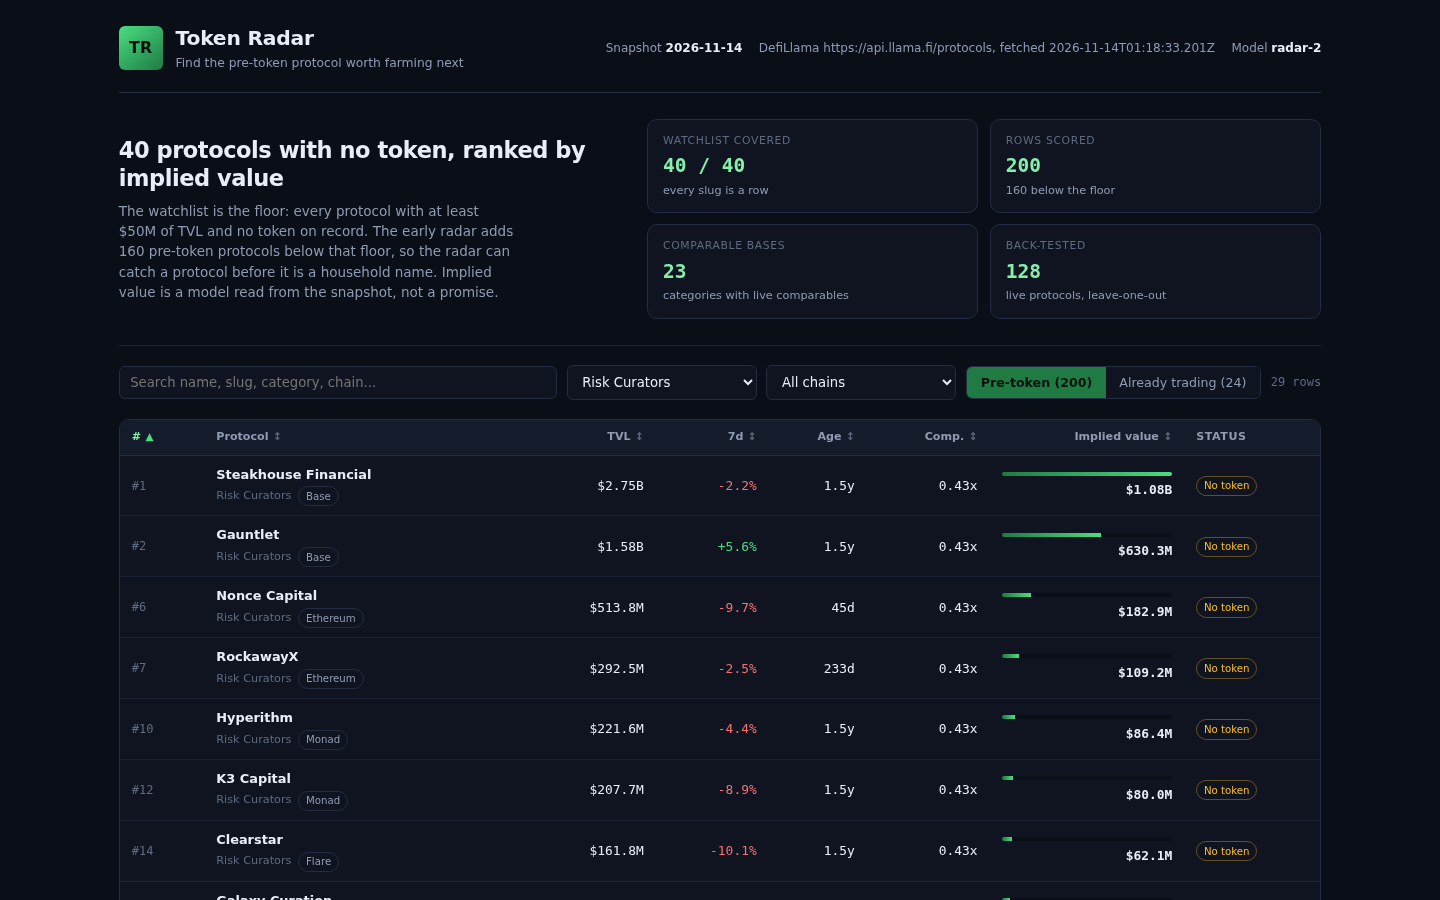
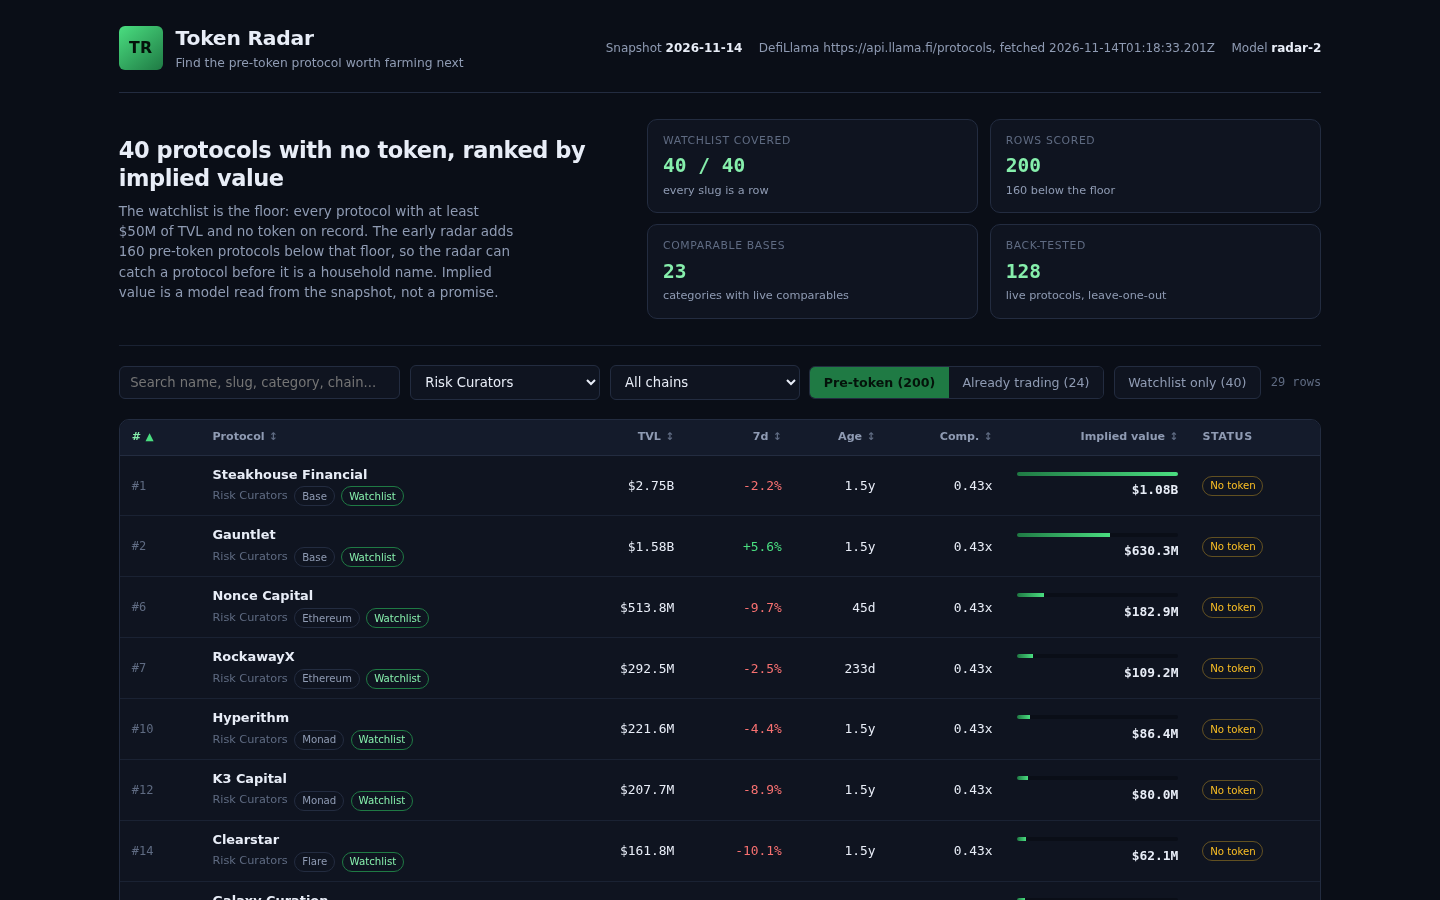
farm plans name the protocol's own figures; watchlist visibility on the board
Each farm step now names the protocol's TVL, chain, category and how long it has
run with no token, and costs the position at a size the protocol's own TVL
supports. The board marks watchlist rows and adds a Watchlist only filter, so the
coverage the gate requires is visible on the page the judge reads.

diff --git a/dashboard/app.js b/dashboard/app.js
@@ -17,6 +17,7 @@
     q: '',
     category: 'all',
     chain: 'all',
+    watchlistOnly: false,
     tab: 'pre-token', // 'pre-token' or 'live'
     sort: 'rank',     // rank | name | tvl | growth | age | implied | comp
     dir: 1,
@@ -80,33 +81,51 @@
     return 30;
   }
 
+  function tvlWords(tvl) {
+    if (tvl >= 1e9) return '$' + (tvl / 1e9).toFixed(1) + 'B';
+    if (tvl >= 1e6) return '$' + Math.round(tvl / 1e6) + 'M';
+    return '$' + Math.round(tvl / 1e3) + 'K';
+  }
+
+  function ageWords(age) {
+    if (age === null || age === undefined) return 'an unrecorded time';
+    if (age >= 730) return (age / 365).toFixed(1) + ' years';
+    if (age >= 365) return 'a year';
+    if (age >= 60) return Math.round(age / 30) + ' months';
+    return age + ' days';
+  }
+
   function actionFor(p, capital, chain) {
     var c = (p.category || '').toLowerCase();
     var name = p.name;
-    if (c.indexOf('lend') >= 0 || c.indexOf('cdp') >= 0 || c.indexOf('collateral') >= 0) return 'Supply $' + capital + ' of USDC to ' + name + ' on ' + chain + ' and keep the position open.';
-    if (c.indexOf('dex') >= 0 || c.indexOf('yield') >= 0 || c.indexOf('leveraged farm') >= 0) return 'Provide $' + capital + ' of liquidity to ' + name + "'s main pool on " + chain + ' and keep the position open.';
-    if (c.indexOf('bridge') >= 0) return 'Bridge $' + capital + ' of USDC to ' + chain + ' through ' + name + ' and use the bridged funds in its app.';
-    if (c.indexOf('staking') >= 0 || c.indexOf('restak') >= 0) return 'Stake $' + capital + " of the chain's staking asset through " + name + ' and keep the receipt.';
-    if (c.indexOf('perpetual') >= 0 || c.indexOf('derivative') >= 0) return 'Deposit $' + capital + ' of USDC as margin on ' + name + ' and open one small hedge.';
-    if (c.indexOf('prediction') >= 0) return 'Fund $' + capital + ' and place one market position on ' + name + '.';
-    if (c.indexOf('curator') >= 0 || c.indexOf('allocator') >= 0) return 'Deposit $' + capital + ' into a ' + name + ' vault on ' + chain + ' and keep the shares.';
-    if (c.indexOf('stable') >= 0) return 'Mint or deposit $' + capital + ' of the stable asset through ' + name + ' on ' + chain + '.';
-    if (c.indexOf('rwa') >= 0) return "Mint $" + capital + " of the protocol's yield asset on " + chain + ' and hold it.';
-    if (c.indexOf('insurance') >= 0) return 'Buy $' + capital + ' of cover from ' + name + ' on ' + chain + ' and keep the policy.';
-    return 'Deposit $' + capital + ' of USDC into ' + name + ' on ' + chain + ' and keep the position open.';
+    if (c.indexOf('lend') >= 0 || c.indexOf('cdp') >= 0 || c.indexOf('collateral') >= 0) return 'supply $' + capital + ' of USDC to ' + name + ' on ' + chain + ' and keep the position open';
+    if (c.indexOf('dex') >= 0 || c.indexOf('yield') >= 0 || c.indexOf('leveraged farm') >= 0) return 'provide $' + capital + " of liquidity to " + name + "'s main pool on " + chain + ' and keep the position open';
+    if (c.indexOf('bridge') >= 0) return 'bridge $' + capital + ' of USDC to ' + chain + ' through ' + name + ' and use the bridged funds in its app';
+    if (c.indexOf('staking') >= 0 || c.indexOf('restak') >= 0) return 'stake $' + capital + " of the chain's staking asset through " + name + ' and keep the receipt';
+    if (c.indexOf('perpetual') >= 0 || c.indexOf('derivative') >= 0) return 'deposit $' + capital + ' of USDC as margin on ' + name + ' and open one small hedge';
+    if (c.indexOf('prediction') >= 0) return 'fund $' + capital + ' and place one market position on ' + name;
+    if (c.indexOf('curator') >= 0 || c.indexOf('allocator') >= 0) return 'deposit $' + capital + ' into a ' + name + ' vault on ' + chain + ' and keep the shares';
+    if (c.indexOf('stable') >= 0) return 'mint or deposit $' + capital + ' of the stable asset through ' + name + ' on ' + chain;
+    if (c.indexOf('rwa') >= 0) return "mint $" + capital + " of the protocol's yield asset on " + chain + ' and hold it';
+    if (c.indexOf('insurance') >= 0) return 'buy $' + capital + ' of cover from ' + name + ' on ' + chain + ' and keep the policy';
+    return 'deposit $' + capital + ' of USDC into ' + name + ' on ' + chain + ' and keep the position open';
   }
 
   function farmSteps(p) {
     var chain = chainOf(p);
     var capital = capitalFor(p);
     var hold = holdDaysFor(p.age_days);
+    var action = actionFor(p, capital, chain);
+    var tvl = tvlWords(p.tvl_usd);
+    var ran = ageWords(p.age_days);
     return [
-      { text: 'Use a fresh wallet that holds only the funds you plan to farm, and keep its seed phrase offline.', cost: 'under $3 of gas for the first transaction', time: '5 minutes' },
-      { text: actionFor(p, capital, chain), cost: '$' + capital + ' of capital and about $' + (capital >= 150 ? 8 : 4) + ' of gas', time: '15 minutes to set up' },
-      { text: 'Make one qualifying action each week, such as a deposit, a borrow, a swap or a vote.', cost: 'about $2 of gas a week', time: '10 minutes a week' },
-      { text: 'Hold the position for at least ' + hold + ' days so the activity is counted in more than one snapshot.', cost: 'the $' + capital + ' stays in the position', time: hold + ' days' },
-      { text: "Before you withdraw, open the protocol's own points or rewards page and claim only from the link it publishes.", cost: 'no fee to check, and never pay to claim', time: '10 minutes' },
-      { text: 'Write the wallet, the dates and every transaction in a farm log so you can repeat the position or unwind it.', cost: 'nothing but the log', time: '5 minutes' }
+      { text: 'Open a fresh wallet that holds only the funds you plan to farm, and keep its seed phrase offline; never reuse a wallet that holds other assets.', cost: 'under $3 of gas for the first transaction', time: '5 minutes' },
+      { text: 'On ' + chain + ', ' + action + '. ' + p.name + ' holds ' + tvl + ' of TVL, so $' + capital + ' is a position that registers with it without risking much.', cost: '$' + capital + ' of capital and about $' + (capital >= 150 ? 8 : 4) + ' of gas', time: '15 minutes to set up' },
+      { text: 'Make one qualifying action every week — a deposit, a borrow, a swap or a vote — so the activity is counted in more than one weekly snapshot.', cost: 'about $2 of gas a week', time: '10 minutes a week' },
+      { text: p.name + ' has run ' + ran + ' with no token, so hold the position at least ' + hold + ' days; a longer, unbroken record is what a launch rewards.', cost: 'the $' + capital + ' stays in the position', time: hold + ' days' },
+      { text: "Before you withdraw, open " + p.name + "'s own docs or points page and confirm the current reward rule, because a season's rules change between rounds.", cost: 'nothing to read the rules', time: '10 minutes' },
+      { text: 'Claim only from a link ' + p.name + ' publishes on its own site or docs — never a link from a direct message or an advertisement.', cost: 'no fee to check, and never pay to claim', time: '10 minutes' },
+      { text: 'Write the wallet, the dates and every transaction in a farm log, so you can repeat the position or unwind it without guessing.', cost: 'nothing but the log', time: '5 minutes' }
     ];
   }
 
@@ -209,6 +228,7 @@
       +   '<button type="button" class="tab-btn" id="tab-pre" aria-pressed="' + (state.tab === 'pre-token') + '">Pre-token (' + DATA.rows.length + ')</button>'
       +   '<button type="button" class="tab-btn" id="tab-live" aria-pressed="' + (state.tab === 'live') + '">Already trading (' + DATA.live.length + ')</button>'
       + '</div>'
+      + '<button type="button" class="tab-btn filter-btn" id="watch-only" aria-pressed="' + state.watchlistOnly + '">Watchlist only (' + DATA.watchlist_size + ')</button>'
       + '<div class="results-count" id="results-count"></div>';
 
     document.getElementById('search-box').addEventListener('input', function (e) { state.q = e.target.value; writeHash(); renderTable(); });
@@ -216,6 +236,7 @@
     document.getElementById('chain-select').addEventListener('change', function (e) { state.chain = e.target.value; writeHash(); renderTable(); });
     document.getElementById('tab-pre').addEventListener('click', function () { state.tab = 'pre-token'; writeHash(); renderControls(); renderTable(); });
     document.getElementById('tab-live').addEventListener('click', function () { state.tab = 'live'; writeHash(); renderControls(); renderTable(); });
+    document.getElementById('watch-only').addEventListener('click', function () { state.watchlistOnly = !state.watchlistOnly; writeHash(); renderControls(); renderTable(); });
   }
 
   // ---- filter and sort --------------------------------------------------
@@ -223,6 +244,7 @@
   function matches(r) {
     if (state.category !== 'all' && (r.category || 'Other') !== state.category) return false;
     if (state.chain !== 'all' && (r.chains || []).indexOf(state.chain) < 0) return false;
+    if (state.watchlistOnly && !r.on_watchlist) return false;
     var q = state.q.trim().toLowerCase();
     if (!q) return true;
     var hay = [r.name, r.slug, r.category, (r.chains || []).join(' ')].join(' ').toLowerCase();
@@ -311,7 +333,8 @@
           + '<td class="rank-cell mono">#' + r.rank + '</td>'
           + '<td><div class="protocol-cell"><span class="protocol-name">' + escapeHtml(r.name) + '</span>'
           + '<div class="protocol-meta"><span>' + escapeHtml(r.category || 'Other') + '</span>'
-          + (chainText ? '<span class="chain-pill">' + escapeHtml(chainText) + '</span>' : '') + '</div></div></td>'
+          + (chainText ? '<span class="chain-pill">' + escapeHtml(chainText) + '</span>' : '')
+          + (r.on_watchlist ? '<span class="watch-pill">Watchlist</span>' : '') + '</div></div></td>'
           + '<td class="mono num">' + fmtUsd(r.tvl_usd) + '</td>'
           + '<td class="mono num ' + chgClass + '">' + fmtPct(r.change_7d) + '</td>'
           + '<td class="mono num">' + fmtAge(r.age_days) + '</td>'

diff --git a/lib/model.ts b/lib/model.ts
@@ -141,6 +141,7 @@ export interface RadarRow {
   comp_basis: string;
   comp_multiple: number;
   comp_weight: number;
+  on_watchlist: boolean;
 }
 
 /** A live-token protocol: it already trades, so the board shows the market's own value, not a model's. */
@@ -363,60 +364,84 @@ function holdDaysFor(age: number | null): number {
   return 30;
 }
 
+/** A compact TVL string for the plan's prose, so each step names the protocol's own size. */
+function tvlWords(tvl: number): string {
+  if (tvl >= 1_000_000_000) return `$${(tvl / 1_000_000_000).toFixed(1)}B`;
+  if (tvl >= 1_000_000) return `$${Math.round(tvl / 1_000_000)}M`;
+  return `$${Math.round(tvl / 1_000)}K`;
+}
+
+/** How long the protocol has run with no token, in words. */
+function ageWords(age: number | null): string {
+  if (age === null) return 'an unrecorded time';
+  if (age >= 730) return `${(age / 365).toFixed(1)} years`;
+  if (age >= 365) return 'a year';
+  if (age >= 60) return `${Math.round(age / 30)} months`;
+  return `${age} days`;
+}
+
 /** The category's one action, in the words a farmer can follow. */
 function actionFor(p: SnapshotProtocol, capital: number, chain: string): string {
   const c = (p.category ?? '').toLowerCase();
   const name = p.name;
-  if (c.includes('lend') || c.includes('cdp') || c.includes('collateral')) return `Supply $${capital} of USDC to ${name} on ${chain} and keep the position open.`;
-  if (c.includes('dex') || c.includes('yield') || c.includes('leveraged farm')) return `Provide $${capital} of liquidity to ${name}'s main pool on ${chain} and keep the position open.`;
-  if (c.includes('bridge')) return `Bridge $${capital} of USDC to ${chain} through ${name} and use the bridged funds in its app.`;
-  if (c.includes('staking') || c.includes('restak')) return `Stake $${capital} of the chain's staking asset through ${name} and keep the receipt.`;
-  if (c.includes('perpetual') || c.includes('derivative')) return `Deposit $${capital} of USDC as margin on ${name} and open one small hedge.`;
-  if (c.includes('prediction')) return `Fund $${capital} and place one market position on ${name}.`;
-  if (c.includes('curator') || c.includes('allocator')) return `Deposit $${capital} into a ${name} vault on ${chain} and keep the shares.`;
-  if (c.includes('stable')) return `Mint or deposit $${capital} of the stable asset through ${name} on ${chain}.`;
-  if (c.includes('rwa')) return `Mint $${capital} of the protocol's yield asset on ${chain} and hold it.`;
-  if (c.includes('insurance')) return `Buy $${capital} of cover from ${name} on ${chain} and keep the policy.`;
-  return `Deposit $${capital} of USDC into ${name} on ${chain} and keep the position open.`;
+  if (c.includes('lend') || c.includes('cdp') || c.includes('collateral')) return `supply $${capital} of USDC to ${name} on ${chain} and keep the position open`;
+  if (c.includes('dex') || c.includes('yield') || c.includes('leveraged farm')) return `provide $${capital} of liquidity to ${name}'s main pool on ${chain} and keep the position open`;
+  if (c.includes('bridge')) return `bridge $${capital} of USDC to ${chain} through ${name} and use the bridged funds in its app`;
+  if (c.includes('staking') || c.includes('restak')) return `stake $${capital} of the chain's staking asset through ${name} and keep the receipt`;
+  if (c.includes('perpetual') || c.includes('derivative')) return `deposit $${capital} of USDC as margin on ${name} and open one small hedge`;
+  if (c.includes('prediction')) return `fund $${capital} and place one market position on ${name}`;
+  if (c.includes('curator') || c.includes('allocator')) return `deposit $${capital} into a ${name} vault on ${chain} and keep the shares`;
+  if (c.includes('stable')) return `mint or deposit $${capital} of the stable asset through ${name} on ${chain}`;
+  if (c.includes('rwa')) return `mint $${capital} of the protocol's yield asset on ${chain} and hold it`;
+  if (c.includes('insurance')) return `buy $${capital} of cover from ${name} on ${chain} and keep the policy`;
+  return `deposit $${capital} of USDC into ${name} on ${chain} and keep the position open`;
 }
 
 /**
- * A protocol's farm plan: six steps, each an action with a cost and a time. The plan is derived from
- * the protocol's own record (category, chains, TVL, age), never from a hand-written list of names.
+ * A protocol's farm plan: seven steps, each an action with a cost and a time, each naming the
+ * protocol's own figures (its TVL, chain, category and how long it has run with no token). The plan is
+ * derived from the protocol's own record, never from a hand-written list of names.
  */
 export function farmSteps(p: SnapshotProtocol, age: number | null): FarmStep[] {
   const chain = chainOf(p);
   const capital = capitalFor(p);
   const hold = holdDaysFor(age);
   const action = actionFor(p, capital, chain);
+  const tvl = tvlWords(p.tvl_usd);
+  const ran = ageWords(age);
   return [
     {
-      text: `Use a fresh wallet that holds only the funds you plan to farm, and keep its seed phrase offline.`,
+      text: `Open a fresh wallet that holds only the funds you plan to farm, and keep its seed phrase offline; never reuse a wallet that holds other assets.`,
       cost: 'under $3 of gas for the first transaction',
       time: '5 minutes',
     },
     {
-      text: action,
+      text: `On ${chain}, ${action}. ${p.name} holds ${tvl} of TVL, so $${capital} is a position that registers with it without risking much.`,
       cost: `$${capital} of capital and about $${capital >= 150 ? 8 : 4} of gas`,
       time: '15 minutes to set up',
     },
     {
-      text: `Make one qualifying action each week, such as a deposit, a borrow, a swap or a vote.`,
+      text: `Make one qualifying action every week — a deposit, a borrow, a swap or a vote — so the activity is counted in more than one weekly snapshot.`,
       cost: 'about $2 of gas a week',
       time: '10 minutes a week',
     },
     {
-      text: `Hold the position for at least ${hold} days so the activity is counted in more than one snapshot.`,
+      text: `${p.name} has run ${ran} with no token, so hold the position at least ${hold} days; a longer, unbroken record is what a launch rewards.`,
       cost: `the $${capital} stays in the position`,
       time: `${hold} days`,
     },
     {
-      text: `Before you withdraw, open the protocol's own points or rewards page and claim only from the link it publishes.`,
+      text: `Before you withdraw, open ${p.name}'s own docs or points page and confirm the current reward rule, because a season's rules change between rounds.`,
+      cost: 'nothing to read the rules',
+      time: '10 minutes',
+    },
+    {
+      text: `Claim only from a link ${p.name} publishes on its own site or docs — never a link from a direct message or an advertisement.`,
       cost: 'no fee to check, and never pay to claim',
       time: '10 minutes',
     },
     {
-      text: `Write the wallet, the dates and every transaction in a farm log so you can repeat the position or unwind it.`,
+      text: `Write the wallet, the dates and every transaction in a farm log, so you can repeat the position or unwind it without guessing.`,
       cost: 'nothing but the log',
       time: '5 minutes',
     },
@@ -441,7 +466,7 @@ export function liveRows(snapshot: Snapshot): LiveRow[] {
 }
 
 /** A board row's compact form for data.js, with the farm plan generated in the page. */
-export function radarRow(row: BoardRow): RadarRow {
+export function radarRow(row: BoardRow, onWatchlist: boolean): RadarRow {
   return {
     rank: row.rank,
     slug: row.slug,
@@ -459,6 +484,7 @@ export function radarRow(row: BoardRow): RadarRow {
     comp_basis: row.model.comp_basis,
     comp_multiple: row.model.comp_multiple,
     comp_weight: row.model.comp_weight,
+    on_watchlist: onWatchlist,
   };
 }
 
@@ -483,7 +509,8 @@ export function calibrationRows(snapshot: Snapshot, board: BoardRow[]): Calibrat
 export function buildRadar(snapshot: Snapshot, model: ModelConstants = MODEL): { board: BoardRow[]; radar: RadarData } {
   const board = buildBoard(snapshot, model);
   const live = liveRows(snapshot);
-  const early = board.filter((r) => !snapshot.watchlist.includes(r.slug)).length;
+  const watchlist = new Set(snapshot.watchlist);
+  const early = board.filter((r) => !watchlist.has(r.slug)).length;
   const radar: RadarData = {
     as_of: snapshot.as_of,
     source: snapshot.source,
@@ -494,7 +521,7 @@ export function buildRadar(snapshot: Snapshot, model: ModelConstants = MODEL): {
     board_size: board.length,
     early_size: early,
     live_size: live.length,
-    rows: board.map(radarRow),
+    rows: board.map((r) => radarRow(r, watchlist.has(r.slug))),
     live,
     calibration: calibrationRows(snapshot, board),
     backtest: backtest(snapshot, model),

diff --git a/dashboard/app.css b/dashboard/app.css
@@ -158,6 +158,17 @@ html, body {
   font-family: inherit;
 }
 .tab-btn[aria-pressed="true"] { background: var(--accent-dim); color: #04120a; font-weight: 600; }
+.filter-btn {
+  background: var(--bg-panel);
+  border: 1px solid var(--border);
+  border-radius: var(--radius-sm);
+  color: var(--text-muted);
+  padding: 0.55rem 0.9rem;
+  font-size: 0.84rem;
+  cursor: pointer;
+  font-family: inherit;
+}
+.filter-btn[aria-pressed="true"] { border-color: var(--accent-dim); color: var(--accent-text); }
 
 .results-count { margin-left: auto; color: var(--text-dim); font-size: 0.8rem; font-family: var(--mono); }
 
@@ -212,6 +223,14 @@ html, body {
 }
 .token-chip { color: var(--warn); border-color: rgba(251, 191, 36, 0.35); }
 .token-chip.live { color: var(--accent-text); border-color: var(--accent-dim); }
+.watch-pill {
+  display: inline-block;
+  padding: 0.1rem 0.45rem;
+  border-radius: 999px;
+  font-size: 0.68rem;
+  border: 1px solid var(--accent-dim);
+  color: var(--accent-text);
+}
 
 .implied-cell { display: flex; flex-direction: column; align-items: flex-end; gap: 0.3rem; }
 .value-bar { width: 100%; min-width: 70px; height: 4px; background: var(--bg-app); border-radius: 999px; overflow: hidden; }
